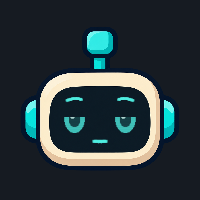
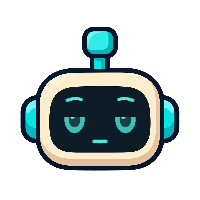
Export dashboard mascot moods with transparent backgrounds

diff --git a/trader-fabric/src/test/java/dev/doughbay/fabric/MascotGifExport.java b/trader-fabric/src/test/java/dev/doughbay/fabric/MascotGifExport.java
@@ -48,7 +48,6 @@ class MascotGifExport {
 
     private static final int TILE = 200;
     private static final int HEAD = 176;
-    private static final Color BACKGROUND = new Color(0x161B22);
     /** 20 frames a second; GIF delays are in hundredths of a second. */
     private static final int DELAY_CS = 5;
 
@@ -120,19 +119,22 @@ class MascotGifExport {
         }
         IndexColorModel palette = sharedPalette(frames);
         List<BufferedImage> indexed = new ArrayList<>(count);
-        for (BufferedImage f : frames) indexed.add(toPalette(f, palette));
+        for (BufferedImage f : frames) {
+            BufferedImage converted = toPalette(f, palette);
+            assertTrue((converted.getRGB(0, 0) >>> 24) == 0, "Card background must show through");
+            assertTrue((converted.getRGB(TILE / 2, TILE / 2) >>> 24) == 255, "Face must stay opaque");
+            indexed.add(converted);
+        }
         writeDeltaGif(file, indexed);
     }
 
     /** One frame: the still shell, then the moving face in the shell's 256-unit space. */
     private static BufferedImage frame(BufferedImage shell, MascotAnimation.Pose pose) {
-        BufferedImage img = new BufferedImage(TILE, TILE, BufferedImage.TYPE_INT_RGB);
+        BufferedImage img = new BufferedImage(TILE, TILE, BufferedImage.TYPE_INT_ARGB);
         Graphics2D g = img.createGraphics();
         g.setRenderingHint(RenderingHints.KEY_ANTIALIASING, RenderingHints.VALUE_ANTIALIAS_ON);
         g.setRenderingHint(RenderingHints.KEY_INTERPOLATION, RenderingHints.VALUE_INTERPOLATION_BICUBIC);
         g.setRenderingHint(RenderingHints.KEY_RENDERING, RenderingHints.VALUE_RENDER_QUALITY);
-        g.setColor(BACKGROUND);
-        g.fillRect(0, 0, TILE, TILE);
         int inset = (TILE - HEAD) / 2;
         g.translate(inset, inset);
         g.scale(HEAD / 256.0, HEAD / 256.0);
@@ -166,7 +168,7 @@ class MascotGifExport {
      * colours from frame to frame and make the still head shimmer.
      */
     private static IndexColorModel sharedPalette(List<BufferedImage> frames) throws IOException {
-        BufferedImage strip = new BufferedImage(TILE, TILE * frames.size(), BufferedImage.TYPE_INT_RGB);
+        BufferedImage strip = new BufferedImage(TILE, TILE * frames.size(), BufferedImage.TYPE_INT_ARGB);
         Graphics2D g = strip.createGraphics();
         for (int i = 0; i < frames.size(); i++) g.drawImage(frames.get(i), 0, i * TILE, null);
         g.dispose();
@@ -179,6 +181,7 @@ class MascotGifExport {
     private static BufferedImage toPalette(BufferedImage frame, IndexColorModel palette) {
         BufferedImage out = new BufferedImage(TILE, TILE, BufferedImage.TYPE_BYTE_INDEXED, palette);
         Graphics2D g = out.createGraphics();
+        g.setComposite(java.awt.AlphaComposite.Src);
         g.setRenderingHint(RenderingHints.KEY_DITHERING, RenderingHints.VALUE_DITHER_DISABLE);
         g.drawImage(frame, 0, 0, null);
         g.dispose();
@@ -218,8 +221,9 @@ class MascotGifExport {
                 IIOMetadataNode control = child(root, "GraphicControlExtension");
                 control.setAttribute("disposalMethod", "doNotDispose");
                 control.setAttribute("userInputFlag", "FALSE");
-                control.setAttribute("transparentColorFlag", "FALSE");
-                control.setAttribute("transparentColorIndex", "0");
+                int transparent = ((IndexColorModel) p.image().getColorModel()).getTransparentPixel();
+                control.setAttribute("transparentColorFlag", transparent >= 0 ? "TRUE" : "FALSE");
+                control.setAttribute("transparentColorIndex", Integer.toString(Math.max(0, transparent)));
                 control.setAttribute("delayTime", Integer.toString(p.delay()));
                 IIOMetadataNode descriptor = child(root, "ImageDescriptor");
                 descriptor.setAttribute("imageLeftPosition", Integer.toString(p.x()));
